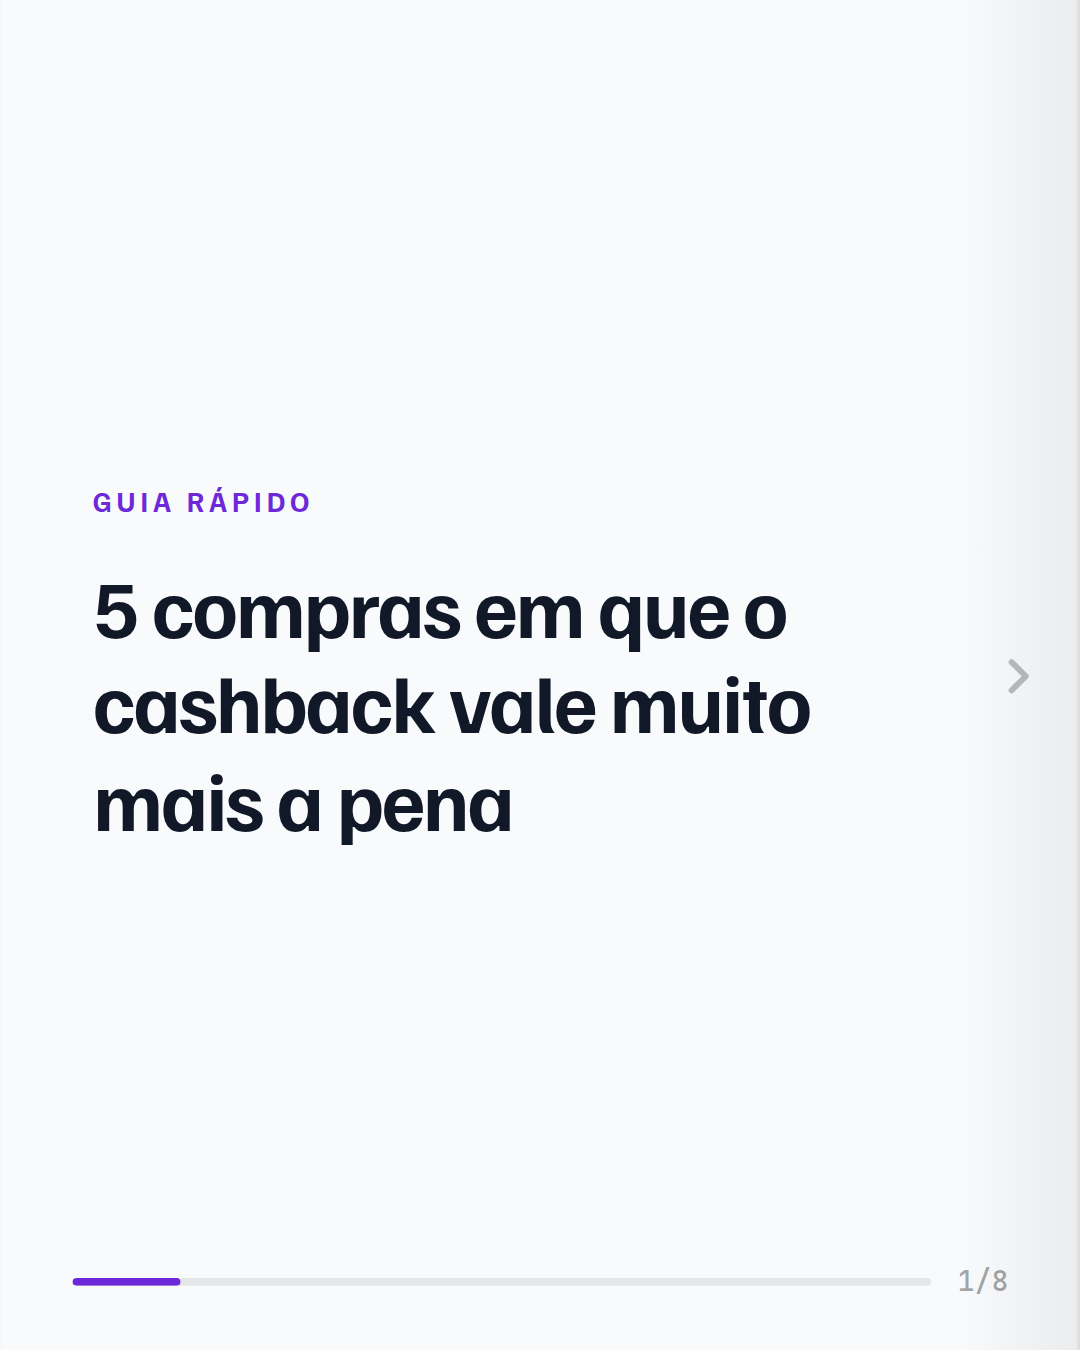
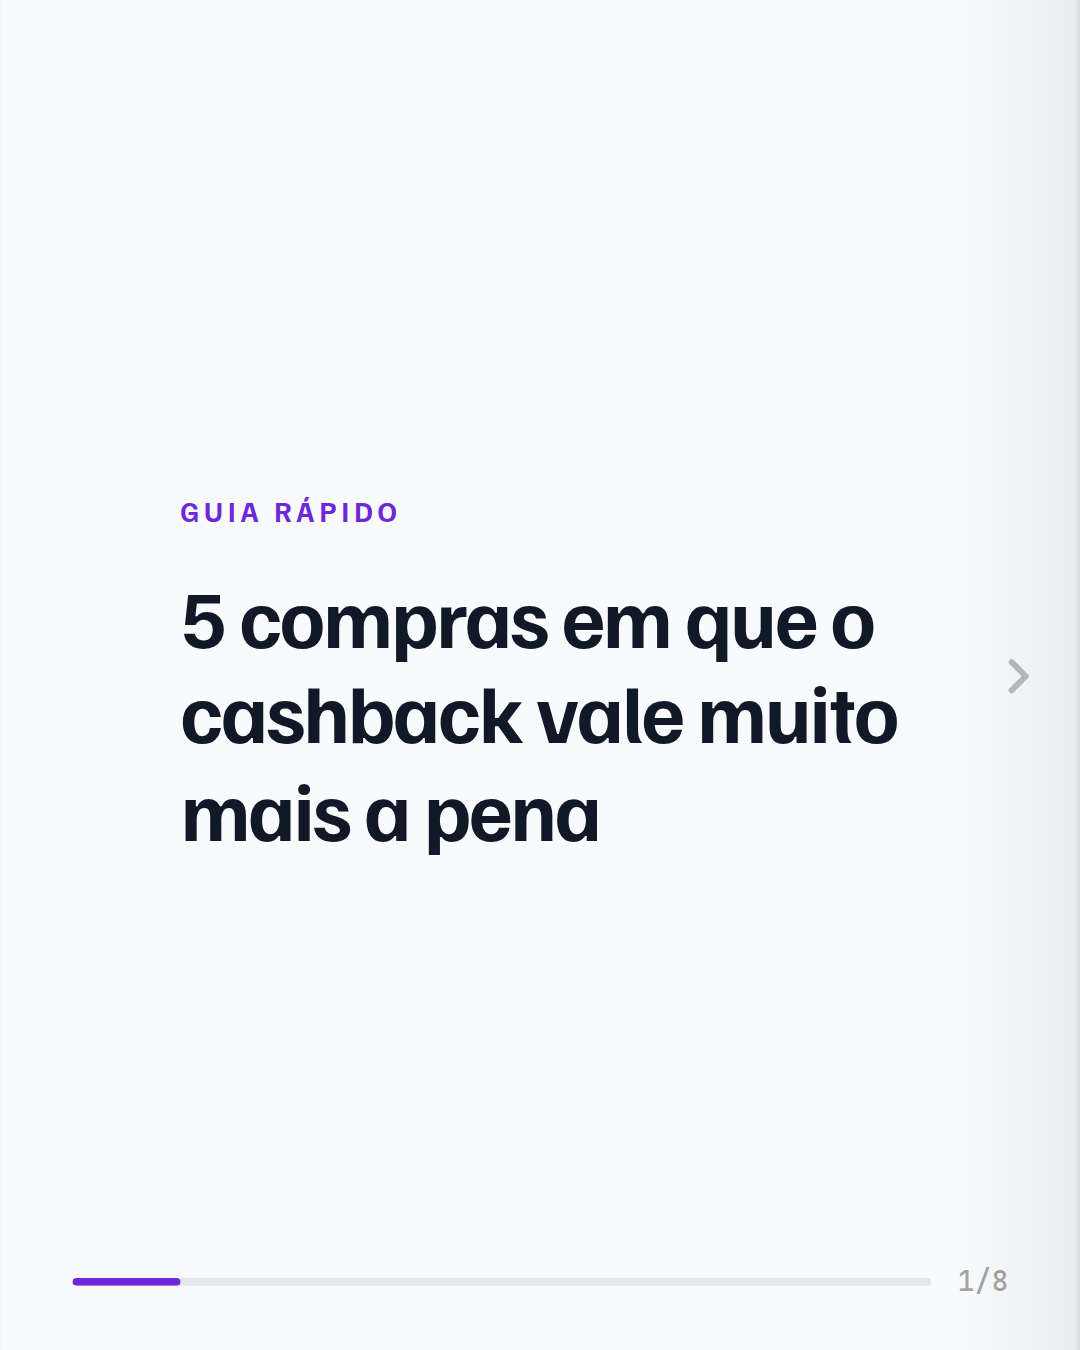
Dá margem segura à capa dos carrosséis para a grade do perfil
A miniatura da grade não é o 4:5 inteiro: o Instagram recorta um quadrado
central primeiro e depois pega um 3:4 desse quadrado, comendo 138px de cada
lado e 135px em cima/baixo de um PNG 1080x1350. Com a margem padrão de 36px,
o texto das capas aparecia cortado na grade (o post aberto ficava certo).

Medido comparando uma célula real da grade com o nosso slide - simulando esse
recorte, bate pixel a pixel. A estimativa ingênua de "3:4 do 4:5" corta menos
da metade disso e não explicava o que aparecia no celular.

O primeiro slide de cada carrossel passa a usar capa=True (PADDING_CAPA, 70px
nas laterais). Só ele aparece na grade, então os internos ficam com a margem
padrão - abertos, aparecem inteiros de qualquer forma.

Adiciona também grade.png ao --export: simula o recorte, para conferir a capa
sem precisar postar e olhar no celular.

Claude-Session: https://claude.ai/code/session_017WZWLEiMQvHUst5KUYseHY

Changed region(s): [[0.0917, 0.4356, 0.825, 0.6533], [0.1528, 0.3422, 0.3667, 0.4044], [0.0917, 0.3422, 0.1528, 0.4044]]

diff --git a/marketing/instagram/carrossel-comissao-invisivel/preview.html b/marketing/instagram/carrossel-comissao-invisivel/preview.html
@@ -57,11 +57,11 @@ body {
         <div class="carousel-track" id="track">
         <div class="slide" style="background:#111827;">
             <div style="position:relative; flex:1; display:flex; flex-direction:column; justify-content:center;
-                        padding:44px 36px 52px;">
+                        padding:64px 70px 64px;">
                 
     <span style="display:block; font-family:Familjen; font-size:11px; font-weight:700; letter-spacing:2px; text-transform:uppercase; color:rgba(255,255,255,0.5); margin-bottom:16px;">o erro</span>
     <div style="font-family:Familjen; font-size:32px; font-weight:700; line-height:1.16; letter-spacing:-0.025em; color:#fff;">Você não está perdendo dinheiro.</div>
-    <div style="font-family:Familjen; font-size:15px; color:rgba(255,255,255,0.7); margin-top:16px; line-height:1.55; max-width:300px;">Está deixando de ganhar. E a diferença é enorme.</div>
+    <div style="font-family:Familjen; font-size:15px; color:rgba(255,255,255,0.7); margin-top:16px; line-height:1.55; max-width:280px;">Está deixando de ganhar. E a diferença é enorme.</div>
     
             </div>
             

diff --git a/marketing/instagram/carrossel-cupom-frete-cashback/preview.html b/marketing/instagram/carrossel-cupom-frete-cashback/preview.html
@@ -57,11 +57,11 @@ body {
         <div class="carousel-track" id="track">
         <div class="slide" style="background:#f8fafc;">
             <div style="position:relative; flex:1; display:flex; flex-direction:column; justify-content:center;
-                        padding:44px 36px 52px;">
+                        padding:64px 70px 64px;">
                 
     <span style="display:block; font-family:Familjen; font-size:11px; font-weight:700; letter-spacing:2px; text-transform:uppercase; color:#6d28d9; margin-bottom:16px;">cash-b explica</span>
     <div style="font-family:Familjen; font-size:32px; font-weight:700; line-height:1.16; letter-spacing:-0.025em; color:#111827;">Cupom, frete grátis ou cashback: qual economiza mais?</div>
-    <div style="font-family:Familjen; font-size:15px; color:#6b7280; margin-top:16px; line-height:1.55; max-width:300px;">A resposta não é a que você está pensando.</div>
+    <div style="font-family:Familjen; font-size:15px; color:#6b7280; margin-top:16px; line-height:1.55; max-width:280px;">A resposta não é a que você está pensando.</div>
     
             </div>
             

diff --git a/marketing/instagram/carrossel-gasto-anual/preview.html b/marketing/instagram/carrossel-gasto-anual/preview.html
@@ -57,11 +57,11 @@ body {
         <div class="carousel-track" id="track">
         <div class="slide" style="background:#f8fafc;">
             <div style="position:relative; flex:1; display:flex; flex-direction:column; justify-content:center;
-                        padding:44px 36px 52px;">
+                        padding:64px 70px 64px;">
                 
     <span style="display:block; font-family:Familjen; font-size:11px; font-weight:700; letter-spacing:2px; text-transform:uppercase; color:#6d28d9; margin-bottom:16px;">os números</span>
     <div style="font-family:Familjen; font-size:34px; font-weight:700; line-height:1.16; letter-spacing:-0.025em; color:#111827;">O que o brasileiro gasta na Shopee em um ano</div>
-    <div style="font-family:Familjen; font-size:15px; color:#6b7280; margin-top:16px; line-height:1.55; max-width:300px;">O valor é maior do que quase todo mundo imagina.</div>
+    <div style="font-family:Familjen; font-size:15px; color:#6b7280; margin-top:16px; line-height:1.55; max-width:280px;">O valor é maior do que quase todo mundo imagina.</div>
     
             </div>
             

diff --git a/marketing/instagram/carrossel-melhores-compras/preview.html b/marketing/instagram/carrossel-melhores-compras/preview.html
@@ -57,7 +57,7 @@ body {
         <div class="carousel-track" id="track">
         <div class="slide" style="background:#f8fafc;">
             <div style="position:relative; flex:1; display:flex; flex-direction:column; justify-content:center;
-                        padding:44px 36px 52px;">
+                        padding:64px 70px 64px;">
                 
     <span style="display:block; font-family:Familjen; font-size:11px; font-weight:700; letter-spacing:2px; text-transform:uppercase; color:#6d28d9; margin-bottom:16px;">guia rápido</span>
     <div style="font-family:Familjen; font-size:32px; font-weight:700; line-height:1.16; letter-spacing:-0.025em; color:#111827;">5 compras em que o cashback vale muito mais a pena</div>

diff --git a/marketing/instagram/carrossel-nao-e-motivo/preview.html b/marketing/instagram/carrossel-nao-e-motivo/preview.html
@@ -57,7 +57,7 @@ body {
         <div class="carousel-track" id="track">
         <div class="slide" style="background:#f8fafc;">
             <div style="position:relative; flex:1; display:flex; flex-direction:column; justify-content:center;
-                        padding:44px 36px 52px;">
+                        padding:64px 70px 64px;">
                 
     <span style="display:block; font-family:Familjen; font-size:11px; font-weight:700; letter-spacing:2px; text-transform:uppercase; color:#6d28d9; margin-bottom:16px;">conversa franca</span>
     <div style="font-family:Familjen; font-size:34px; font-weight:700; line-height:1.16; letter-spacing:-0.025em; color:#111827;">Cashback não é motivo para comprar.</div>

diff --git a/marketing/instagram/carrossel_base.py b/marketing/instagram/carrossel_base.py
@@ -226,23 +226,39 @@ def _swipe_arrow(is_light):
     """
 
 
+# Recorte da grade do perfil no Instagram: a miniatura NÃO é o 4:5 inteiro. O app
+# recorta primeiro um quadrado central e depois pega um 3:4 desse quadrado, o que come
+# 138px de cada lado e 135px em cima/baixo de um PNG 1080x1350 - medido comparando a
+# célula real da grade com o nosso slide, bate pixel a pixel (ver _simular_grade).
+# Em coordenadas do slide (420x525) isso dá ~54px nas laterais e ~52px em cima/baixo.
+# Só o primeiro slide aparece na grade, então só ele precisa dessa margem: usar isso
+# em todos deixaria os internos apertados à toa, já que abertos eles aparecem inteiros.
+PADDING_PADRAO = "44px 36px 52px"
+PADDING_CAPA = "64px 70px 64px"
+
+
 class Slide:
     """Um slide do carrossel. Guarda o conteúdo e o fundo; a numeração (barra de
-    progresso e seta) é resolvida na hora de montar, quando o total já é conhecido."""
+    progresso e seta) é resolvida na hora de montar, quando o total já é conhecido.
 
-    def __init__(self, bg, conteudo, is_light, justify="center", seta=True):
+    capa=True usa margens maiores, para o conteúdo sobreviver ao recorte da grade do
+    perfil - ver PADDING_CAPA acima."""
+
+    def __init__(self, bg, conteudo, is_light, justify="center", seta=True, capa=False):
         self.bg = bg
         self.conteudo = conteudo
         self.is_light = is_light
         self.justify = justify
         self.seta = seta
+        self.capa = capa
 
     def render(self, index, total):
         arrow = _swipe_arrow(self.is_light) if self.seta else ""
+        padding = PADDING_CAPA if self.capa else PADDING_PADRAO
         return f"""
         <div class="slide" style="background:{self.bg};">
             <div style="position:relative; flex:1; display:flex; flex-direction:column; justify-content:{self.justify};
-                        padding:44px 36px 52px;">
+                        padding:{padding};">
                 {self.conteudo}
             </div>
             {arrow}
@@ -417,6 +433,29 @@ def _exportar(preview_path, out_dir, total):
         browser.close()
 
 
+def _simular_grade(out_dir):
+    """Gera grade.png: como o slide 1 aparece na grade do perfil, já recortado.
+
+    Existe porque o recorte só dava para conferir postando de verdade e olhando no
+    celular - agora dá para ver antes. Reproduz o recorte medido: quadrado central,
+    depois 3:4 dele."""
+    from PIL import Image
+
+    capa = Image.open(out_dir / "slide_1.png")
+    largura, altura = capa.size
+    lado = min(largura, altura)
+    topo = (altura - lado) // 2
+    quadrado = capa.crop((0, topo, largura, topo + lado))
+
+    largura_3x4 = int(quadrado.height * 3 / 4)
+    esquerda = (quadrado.width - largura_3x4) // 2
+    recorte = quadrado.crop((esquerda, 0, esquerda + largura_3x4, quadrado.height))
+
+    destino = out_dir / "grade.png"
+    recorte.save(destino)
+    print("  grade simulada:", destino.name)
+
+
 def gerar(nome_pasta, slides, legenda, exportar=False):
     """Escreve o preview HTML, a legenda em texto e, com exportar=True, os PNGs.
 
@@ -436,4 +475,5 @@ def gerar(nome_pasta, slides, legenda, exportar=False):
 
     if exportar:
         _exportar(preview_path, out_dir, len(slides))
+        _simular_grade(out_dir)
     return preview_path

diff --git a/marketing/instagram/gerar_carrossel_comissao_invisivel.py b/marketing/instagram/gerar_carrossel_comissao_invisivel.py
@@ -33,8 +33,8 @@ SLIDES = [
     Slide(DARK_BG, f"""
     {tag_label("o erro", "rgba(255,255,255,0.5)")}
     {titulo("Você não está perdendo dinheiro.", 32)}
-    {subtitulo("Está deixando de ganhar. E a diferença é enorme.", "rgba(255,255,255,0.7)", 300, 15)}
-    """, False),
+    {subtitulo("Está deixando de ganhar. E a diferença é enorme.", "rgba(255,255,255,0.7)", 280, 15)}
+    """, False, capa=True),
 
     Slide(LIGHT_BG, f"""
     {tag_label("como funciona", BRAND_PRIMARY)}

diff --git a/marketing/instagram/gerar_carrossel_gasto_anual.py b/marketing/instagram/gerar_carrossel_gasto_anual.py
@@ -42,8 +42,8 @@ SLIDES = [
     Slide(LIGHT_BG, f"""
     {tag_label("os números", BRAND_PRIMARY)}
     {titulo("O que o brasileiro gasta na Shopee em um ano", 34, DARK_BG)}
-    {subtitulo("O valor é maior do que quase todo mundo imagina.", MUTED, 300, 15)}
-    """, True),
+    {subtitulo("O valor é maior do que quase todo mundo imagina.", MUTED, 280, 15)}
+    """, True, capa=True),
 
     Slide(BRAND_GRADIENT, f"""
     {tag_label("por pessoa, por ano", "rgba(255,255,255,0.75)")}

diff --git a/marketing/instagram/gerar_carrossel_cupom_frete_cashback.py b/marketing/instagram/gerar_carrossel_cupom_frete_cashback.py
@@ -25,8 +25,8 @@ SLIDES = [
     Slide(LIGHT_BG, f"""
     {tag_label("cash-b explica", BRAND_PRIMARY)}
     {titulo("Cupom, frete grátis ou cashback: qual economiza mais?", 32, DARK_BG)}
-    {subtitulo("A resposta não é a que você está pensando.", MUTED, 300, 15)}
-    """, True),
+    {subtitulo("A resposta não é a que você está pensando.", MUTED, 280, 15)}
+    """, True, capa=True),
 
     Slide(LIGHT_BG, f"""
     {tag_label("opção 1", BRAND_PRIMARY)}

diff --git a/marketing/instagram/gerar_carrossel_nao_e_motivo.py b/marketing/instagram/gerar_carrossel_nao_e_motivo.py
@@ -31,7 +31,7 @@ SLIDES = [
     Slide(LIGHT_BG, f"""
     {tag_label("conversa franca", BRAND_PRIMARY)}
     {titulo("Cashback não é motivo para comprar.", 34, DARK_BG)}
-    """, True),
+    """, True, capa=True),
 
     Slide(DARK_BG, f"""
     {titulo("Sim, quem está falando isso é uma marca de cashback.", 28)}

diff --git a/marketing/instagram/gerar_carrossel_melhores_compras.py b/marketing/instagram/gerar_carrossel_melhores_compras.py
@@ -41,7 +41,7 @@ SLIDES = [
     Slide(LIGHT_BG, f"""
     {tag_label("guia rápido", BRAND_PRIMARY)}
     {titulo("5 compras em que o cashback vale muito mais a pena", 32, DARK_BG)}
-    """, True),
+    """, True, capa=True),
 
     Slide(DARK_BG, f"""
     {tag_label("spoiler", "rgba(255,255,255,0.5)")}

diff --git a/marketing/instagram/README.md b/marketing/instagram/README.md
@@ -457,6 +457,32 @@ Cada carrossel gera na própria pasta:
 - `preview.html` — o carrossel arrastável, para revisar antes de exportar
 - `legenda.txt` — a legenda do post, escrita automaticamente por `gerar()`
 - `slide_N.png` — os slides em 1080×1350 (4:5), só com `--export`
+- `grade.png` — como a capa aparece na grade do perfil, já recortada
+
+### O recorte da grade do perfil (medido, não estimado)
+
+A miniatura da grade **não** é o 4:5 inteiro. O Instagram recorta um
+**quadrado central primeiro e depois pega um 3:4 desse quadrado**. Num PNG
+1080×1350 isso come **138px de cada lado e 135px em cima e embaixo** — a
+área que sobra é 810×1080 centralizada.
+
+Isso foi medido comparando uma célula real da grade (print do celular) com
+o nosso slide: simulando esse recorte, o resultado bate pixel a pixel com o
+que o app mostra. Uma estimativa ingênua de "3:4 do 4:5" corta bem menos
+(38px por lado) e não explica o que acontece na prática.
+
+Consequência: conteúdo com a margem padrão (36px nas laterais, em
+coordenadas de slide 420×525) **fica cortado na grade** — foi o que
+aconteceu com os primeiros posts. Por isso o primeiro slide leva
+`capa=True`, que usa `PADDING_CAPA` (70px nas laterais). Só o primeiro
+aparece na grade, então os internos seguem com a margem padrão: abertos,
+eles aparecem inteiros.
+
+Os posts de semeadura (`posts-semeadura/`, 1080×1080) sofrem ainda mais com
+isso: um quadrado dentro de uma célula 3:4 perde 12,5% de cada lado. Quem
+for refazê-los precisa considerar essa margem.
+
+Para conferir sem postar: rode com `--export` e olhe o `grade.png` gerado.
 
 **Convenção da legenda:** todo carrossel tem a legenda salva em
 `legenda.txt` na mesma pasta dos slides, para que na hora de postar tudo
